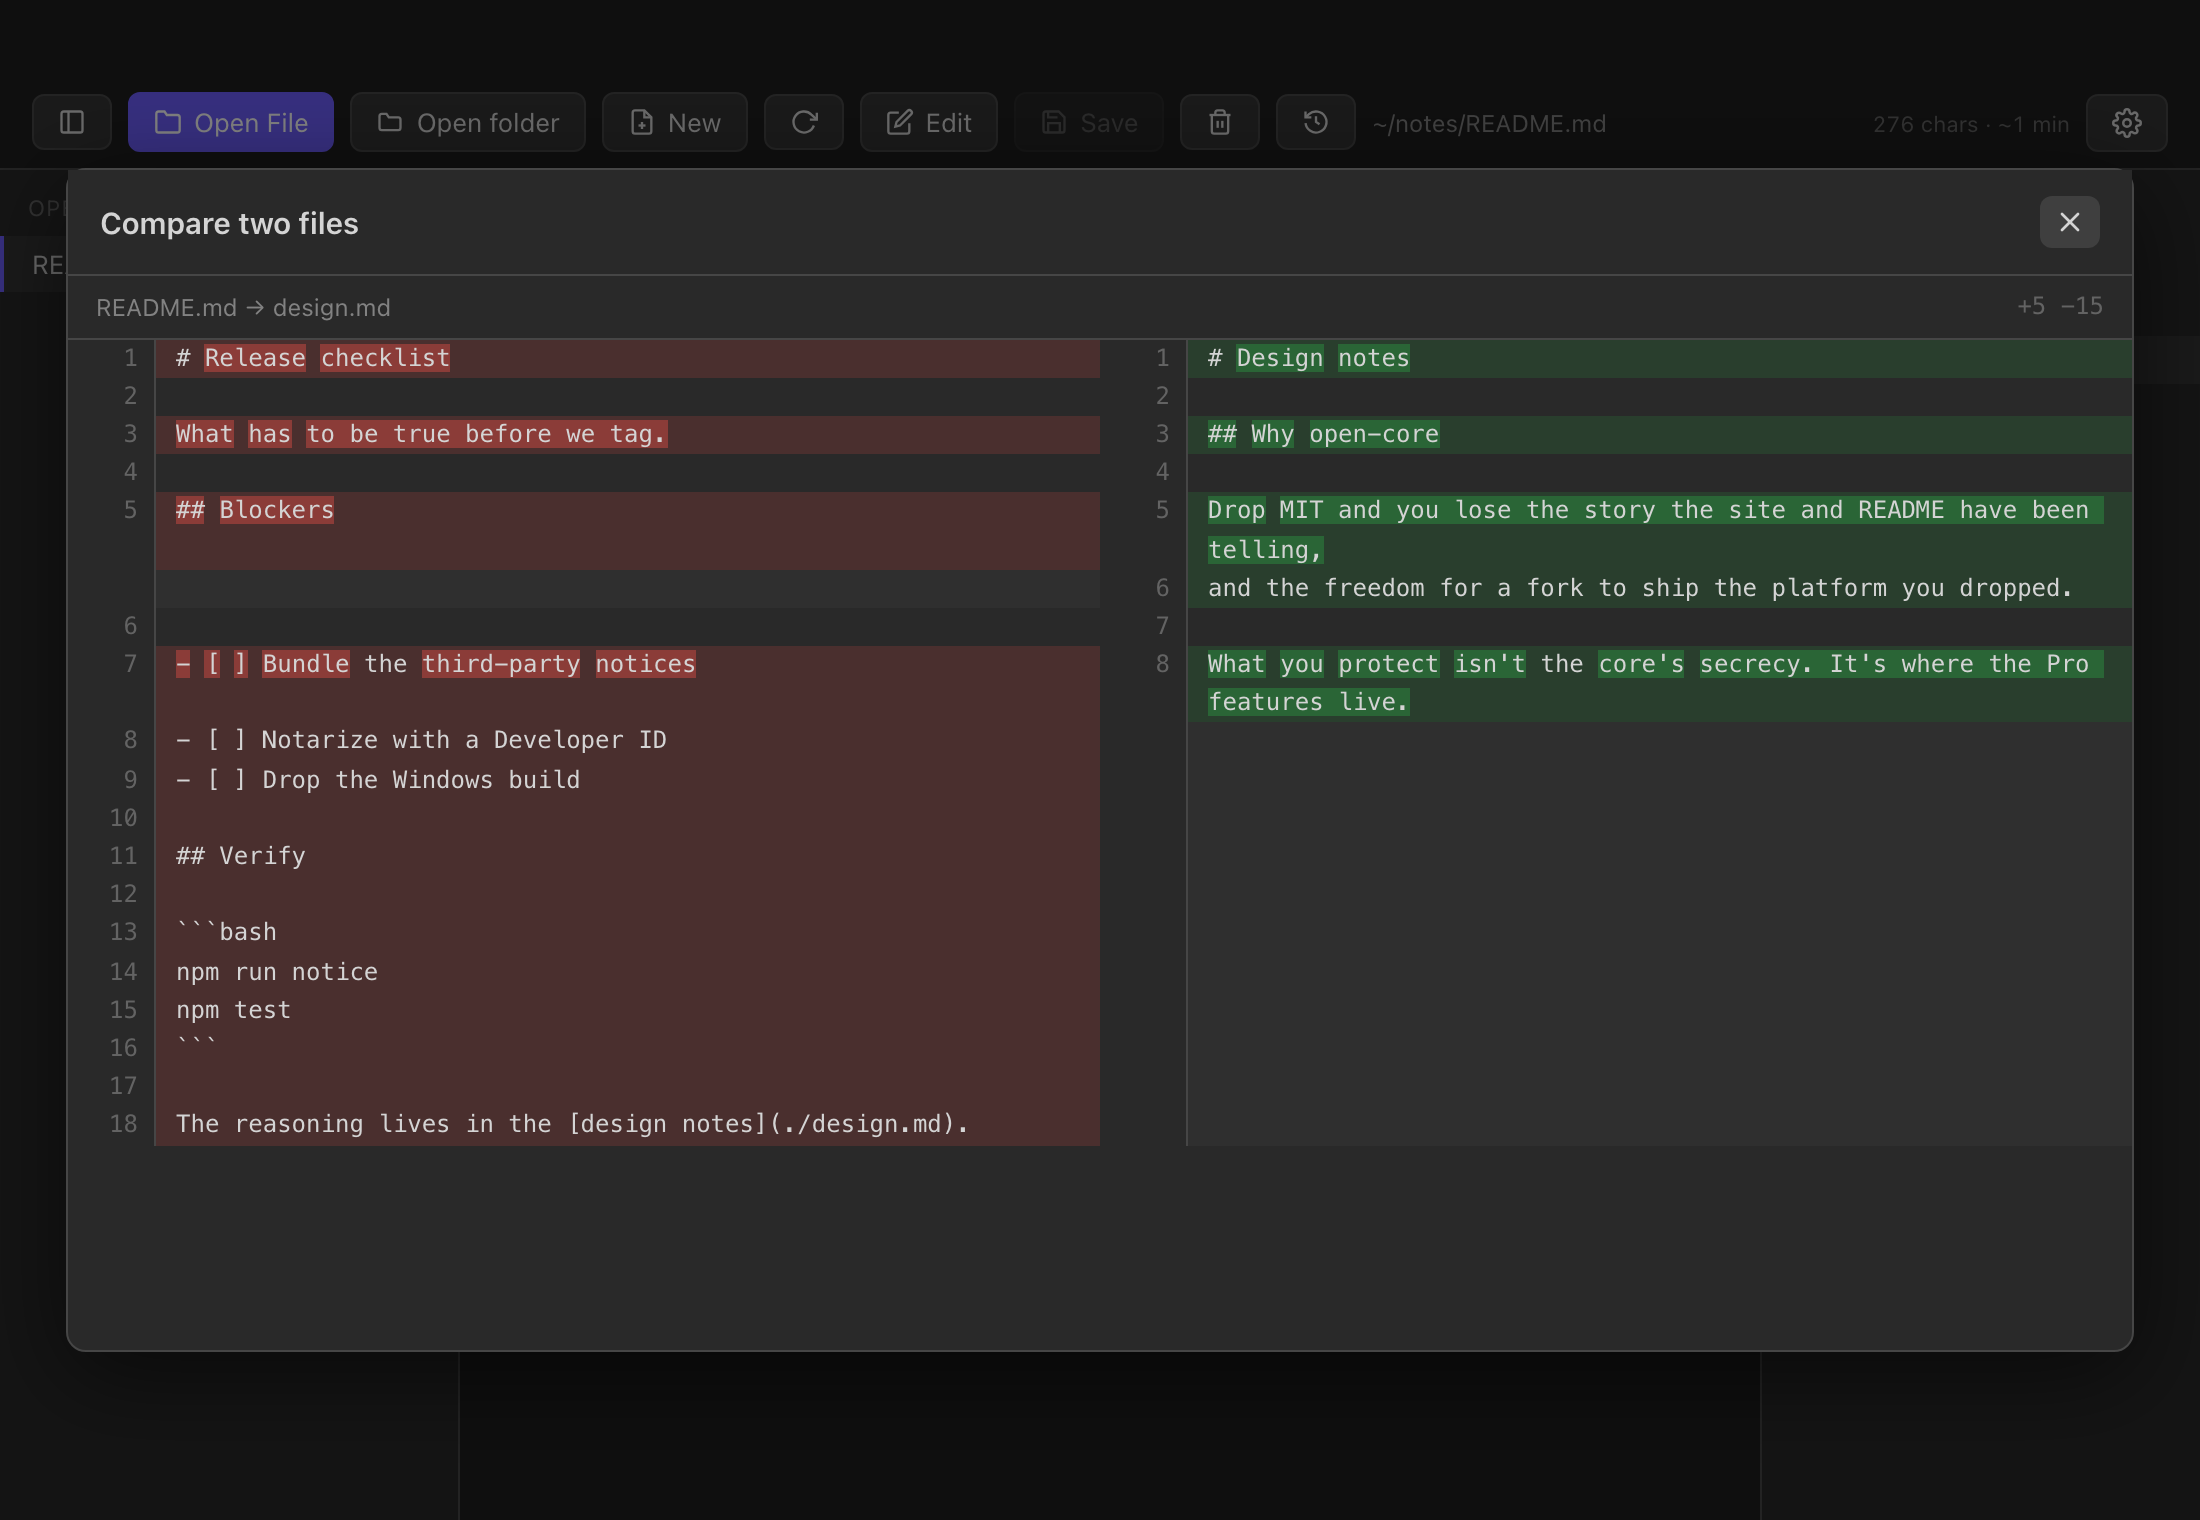
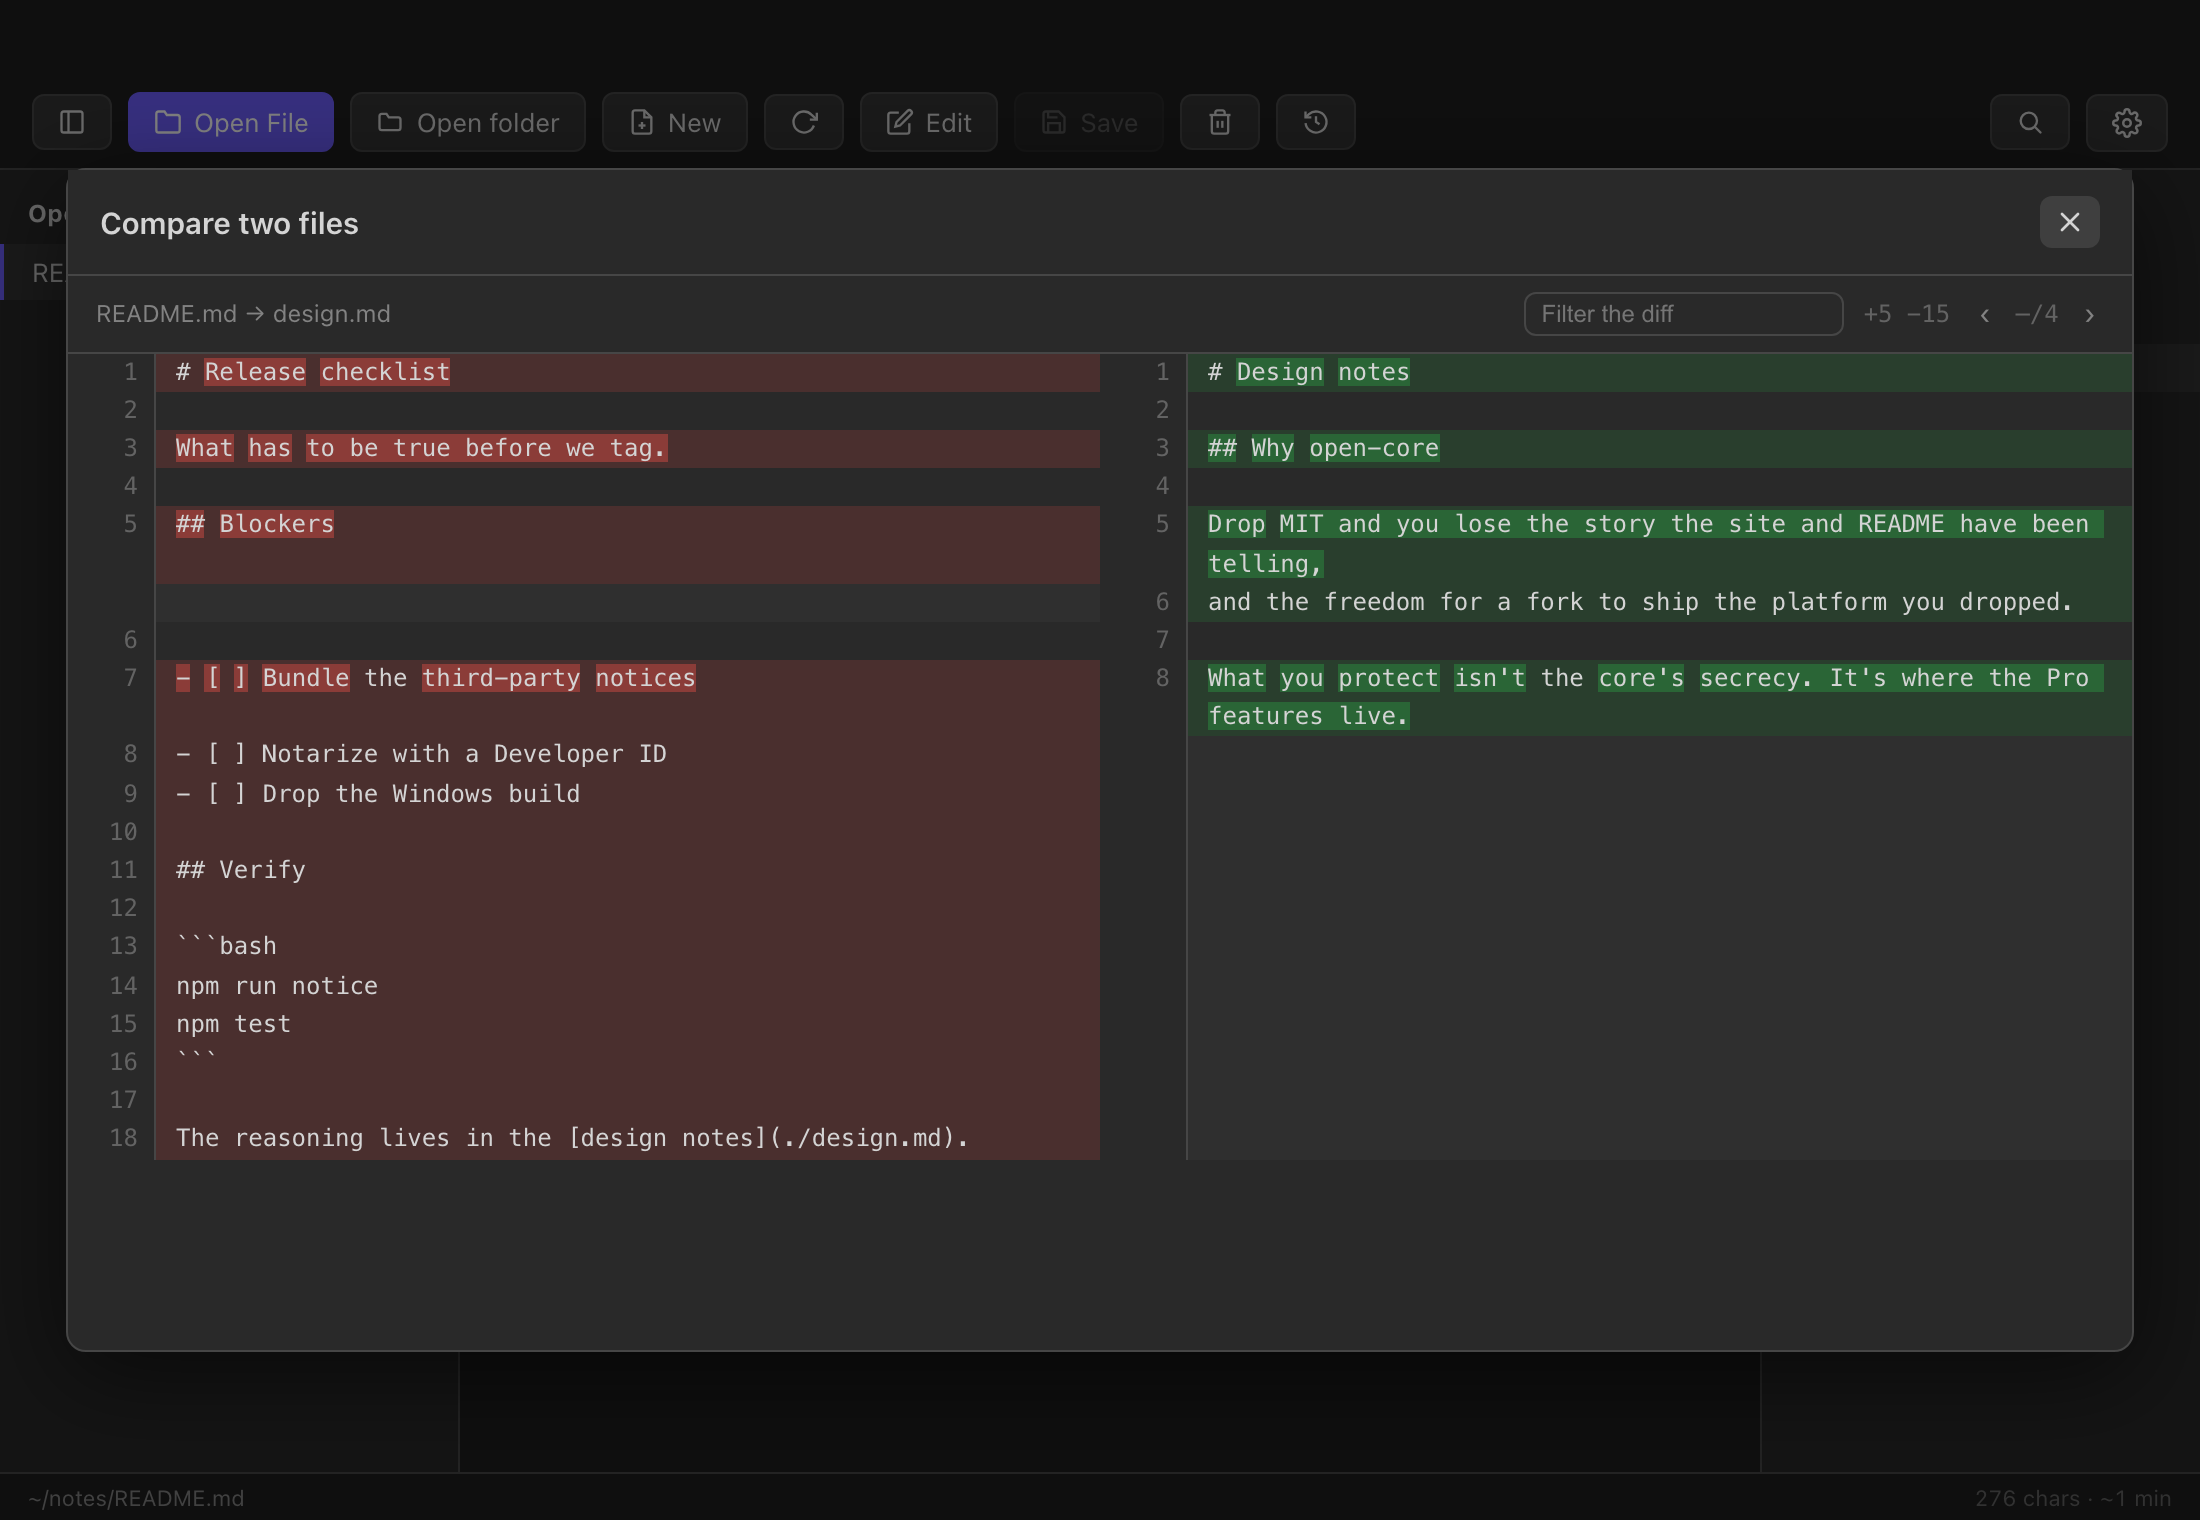
fix: フルパス表示をツールバーから最下部のステータスバーへ移設
ツールバーをアクション専用に純化し、フルパス（~表記）と読書統計を
新設のステータスバーへ集約。ダーティ点・各種エラーメッセージもそこへ。
読書モード（⌘⇧M）では帯ごと非表示。PH ギャラリー用スクショも更新。

diff --git a/src/main.ts b/src/main.ts
@@ -93,7 +93,8 @@ const output = document.getElementById('output')!;
 const docStatsEl = document.getElementById('doc-stats')!;
 const emptyState = document.getElementById('empty-state')!;
 const recentBox = document.getElementById('recent')!;
-const filepath = document.getElementById('filepath')!;
+const statusbar = document.getElementById('statusbar')!;
+const statusPath = document.getElementById('status-path')!;
 const divider = document.getElementById('divider')!;
 const historyBtn = document.getElementById('history-btn') as HTMLButtonElement;
 const historyOverlay = document.getElementById('history-overlay') as HTMLElement;
@@ -575,7 +576,8 @@ function showEmpty() {
   historyBtn.disabled = true;
   conflictBar.hidden = true; // no document, so no conflict to warn about
   findBar.hidden = true;
-  filepath.textContent = '';
+  statusPath.textContent = '';
+  statusbar.hidden = true;
   appWindow.setTitle('MRDown').catch(() => {});
   invoke<string[]>('get_recent_files').then(renderRecent).catch(() => {});
 }
@@ -596,18 +598,19 @@ function updateStatus() {
   // Delete and History act on the on-disk file, so they're only available once saved.
   deleteBtn.disabled = !(active && active.path);
   historyBtn.disabled = !(active && active.path);
-  filepath.textContent = '';
+  statusPath.textContent = '';
   docStatsEl.textContent = active ? formatDocStats(active.workingText) : '';
-  // Window title shows the file name; the toolbar shows the full (~) path.
+  statusbar.hidden = !active;
+  // Window title shows the file name; the status bar shows the full (~) path.
   appWindow.setTitle(active ? active.name : 'MRDown').catch(() => {});
   if (!active) return;
   if (dirty) {
     const dot = document.createElement('span');
     dot.className = 'dirty-dot';
     dot.textContent = '●';
-    filepath.appendChild(dot);
+    statusPath.appendChild(dot);
   }
-  filepath.append(active.path ? tildify(active.path, home) : active.name);
+  statusPath.append(active.path ? tildify(active.path, home) : active.name);
 }
 
 // Reading mode: hide every piece of chrome (toolbar, sidebar, outline) and
@@ -914,7 +917,8 @@ async function openFile(path: string, opts: { recent?: boolean } = {}) {
   try {
     content = await invoke<string>('read_file', { path });
   } catch (e) {
-    filepath.textContent = t('openFailed', { e: String(e) });
+    statusbar.hidden = false;
+    statusPath.textContent = t('openFailed', { e: String(e) });
     return;
   }
   const mtime = await invoke<number>('file_mtime', { path }).catch(() => 0);
@@ -974,7 +978,8 @@ async function deleteActive() {
   try {
     await invoke('delete_file', { path: doc.path });
   } catch (e) {
-    filepath.textContent = t('deleteFailed', { e: String(e) });
+    statusbar.hidden = false;
+    statusPath.textContent = t('deleteFailed', { e: String(e) });
     return;
   }
   await removeDoc(doc);
@@ -1010,7 +1015,8 @@ async function persistTo(path: string) {
   try {
     await invoke('save_file', { path, content: saved });
   } catch (e) {
-    filepath.textContent = t('saveFailed', { e: String(e) });
+    statusbar.hidden = false;
+    statusPath.textContent = t('saveFailed', { e: String(e) });
     return;
   }
 

diff --git a/src/styles.css b/src/styles.css
@@ -106,12 +106,27 @@ button:disabled { opacity: 0.3; cursor: default; }
 #open-btn { background: var(--mrd-accent); color: var(--mrd-accent-text); border-color: var(--mrd-accent); }
 #open-btn:hover { background: var(--mrd-accent-hover); }
 
-#filepath {
-  font-size: 12px;
+/* Status bar (bottom): the active file's full (~) path on the left, reading
+   stats on the right. Metadata lives here so the toolbar stays action-only. */
+#statusbar {
+  display: flex;
+  align-items: center;
+  justify-content: space-between;
+  gap: 12px;
+  height: 24px;
+  padding: 0 14px;
+  border-top: 1px solid var(--mrd-border);
+  background: var(--mrd-bg);
+  flex-shrink: 0;
+}
+#statusbar[hidden] { display: none; }
+#status-path {
+  font-size: 11px;
   color: var(--mrd-muted);
   white-space: nowrap;
   overflow: hidden;
   text-overflow: ellipsis;
+  min-width: 0;
   flex: 1;
 }
 
@@ -125,7 +140,7 @@ button:disabled { opacity: 0.3; cursor: default; }
 #doc-stats:empty { display: none; }
 
 /* Search: one toolbar button that drops a menu of "in this doc" / "across docs". */
-.search-wrap { position: relative; flex-shrink: 0; display: flex; }
+.search-wrap { position: relative; flex-shrink: 0; display: flex; margin-left: auto; }
 .popup-menu {
   position: absolute;
   top: calc(100% + 6px);
@@ -621,7 +636,7 @@ mark.find-hit-current { background: var(--mrd-hit-current); color: var(--mrd-hit
 #delete-btn:hover:not(:disabled) { background: #5a2a2a; color: #ff8a8a; border-color: #7a3a3a; }
 
 #save-btn.dirty { background: var(--mrd-accent); color: var(--mrd-accent-text); border-color: var(--mrd-accent); }
-#filepath .dirty-dot { color: var(--mrd-accent); margin-right: 5px; }
+.dirty-dot { color: var(--mrd-accent); margin-right: 5px; }
 
 /* Recent files (shown inside the empty state) */
 #recent { width: 100%; max-width: 420px; margin-top: 8px; }
@@ -1396,6 +1411,7 @@ mark.find-hit-current { background: var(--mrd-hit-current); color: var(--mrd-hit
 body.reading .toolbar,
 body.reading #sidebar,
 body.reading #outline,
+body.reading #statusbar,
 body.reading #find-bar,
 body.reading #format-bar,
 body.reading #divider,

diff --git a/index.html b/index.html
@@ -73,8 +73,6 @@
         <path d="M12 7v5l3 2"/>
       </svg>
     </button>
-    <span id="filepath"></span>
-    <span id="doc-stats"></span>
     <div class="search-wrap">
       <button id="search-btn" data-i18n-title="btnSearch" aria-haspopup="menu" aria-expanded="false" disabled>
         <svg width="14" height="14" viewBox="0 0 24 24" fill="none" stroke="currentColor" stroke-width="2" stroke-linecap="round" stroke-linejoin="round">
@@ -180,6 +178,11 @@
       </div>
       <ul id="outline-list" hidden></ul>
     </aside>
+  </div>
+
+  <div id="statusbar" hidden>
+    <span id="status-path"></span>
+    <span id="doc-stats"></span>
   </div>
 
   <div id="settings-overlay" class="overlay" hidden>